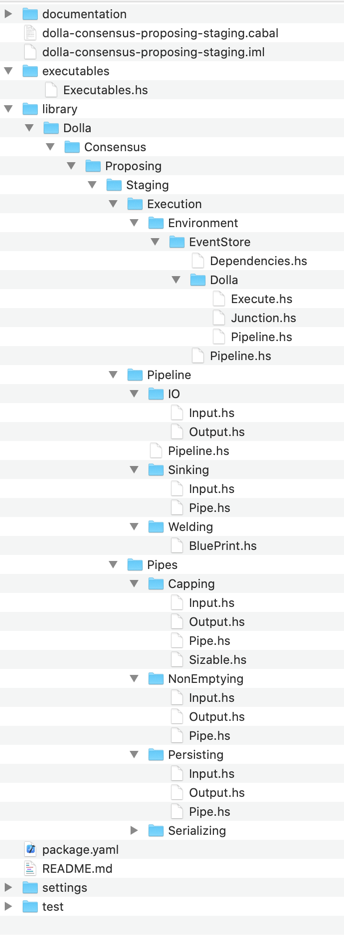
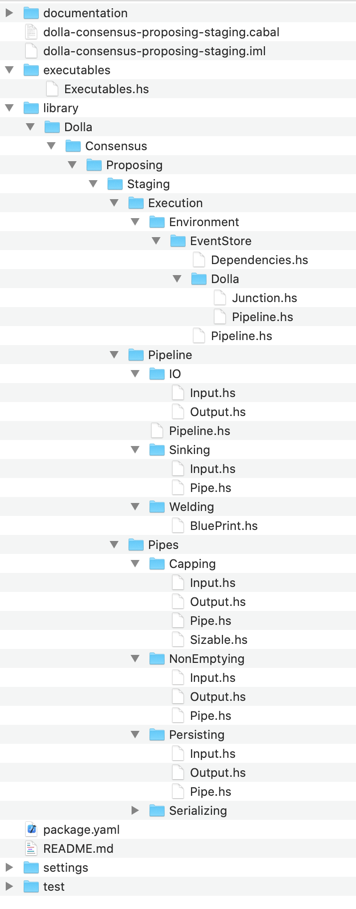
WIP

diff --git a/packages/detecting-tension/README.md b/packages/detecting-tension/README.md
@@ -1,5 +1,5 @@
-/ [Consensus](https://github.com/dolla-consortium/consensus) / [Proposing](https://github.com/dolla-consortium/consensus-proposing) / Detecting Starvation
-# Detecting Starvation
+/ [Consensus](https://github.com/dolla-consortium/consensus) / [Proposing](https://github.com/dolla-consortium/consensus-proposing) / Detecting Tension
+# Detecting Tension
 
 - [Overview](#overview)
 - [Project Tree](#project-tree)
@@ -12,33 +12,34 @@
 <img align="right" src="documentation/media/project-tree.png"><div>
 ### 1. Pipeline
 
-`DetectingStarvation` is a simple ***Pipeline***
-- a persisted input stream : [Input.hs](lib/Dolla/Consensus/Proposing/MeasuringTension/Pipeline/IO/Input.hs)
-- a pipeline [Pipeline.hs](lib/Dolla/Consensus/Proposing/DetectingStarvation/Pipeline/Pipeline.hs)
+`DetectingTension` is a simple ***Pipeline***
+- a persisted input stream : [Input.hs](library/Dolla/Consensus/Proposing/DetectingTension/Pipeline/IO/Input.hs)
+- a line of Pipes Welded together in  [Pipeline.hs](library/Dolla/Consensus/Proposing/DetectingTension/Pipeline/Pipeline.hs)
   - Sourcing initial inputs : `stream infinitely inputLog`
-  - Core [Pipe.hs](lib/Dolla/Consensus/Proposing/MeasuringTension/Pipes/Core/Pipe.hs)
-    - using [StateMachine.hs](lib/Dolla/Consensus/Proposing/MeasuringTension/Pipes/Core/StateMachine.hs)
-    - No Welding : We are using the Input/Output of the Pipeline itself (only 1 pipe)
+  - `DetectingTensedFlow` : A pipe that detects a tensed flow in [Pipe.hs](library/Dolla/Consensus/Proposing/DetectingTension/Pipes/DetectingTensedFlow/Pipe.hs) using [StateMachine.hs](library/Dolla/Consensus/Proposing/DetectingTension/Pipes/DetectingTensedFlow/StateMachine.hs)
+  - A Welding : Adapting IOs between pipes
   - Sinking final outputs : `sinking outputLog`
-- a persisted output stream : [Output.hs](lib/Dolla/Consensus/Proposing/MeasuringTension/Pipeline/IO/Output.hs)
+- a persisted output stream : [Output.hs](library/Dolla/Consensus/Proposing/DetectingTension/Pipeline/IO/Output.hs)
 
-### 3. Instances
+From A CQRS point of view, `DetectingTension` is a projection. It projects outputs from events previously recorded in the system.
 
-`DetectingStarvation` is Polymorphic by the Log Engine used
+### 2. Execution Environment
 
-You'll find in this folder a concrete version of [Pipeline.hs](lib/Dolla/Consensus/Proposing/MeasuringTension/Instances/EventStore/Pipeline.hs) over the event store
+`DetectingTension` is Polymorphic by the Log Engine used
 
-`DetectingStarvation` has some DevOps features as well
+You'll find in this folder a concrete pipeline version in [Pipeline.hs](library/Dolla/Consensus/Proposing/DetectingTension/Execution/Environment/EventStore/Pipeline.hs) over the event store
 
-- [Settings.hs](settings/lib/Dolla/Consensus/Proposing/MeasuringTension/Instances/EventStore/Settings.hs)  always into a separated project `xxxx-packaging-settings` for deployment purposes in Zeus
-- [Dependencies.hs](lib/Dolla/Consensus/Proposing/MeasuringTension/Instances/EventStore/Dependencies.hs) are derived from Settings if sub-dependencies are all Healthy
+`DetectingTension` has some DevOps features as well
 
-[Execute.hs](lib/Dolla/Consensus/Proposing/MeasuringTension/Instances/EventStore/Execute.hs) is an **Instance** of the Pipeline
+- [Settings.hs](settings/library/Dolla/Consensus/Proposing/DetectingTension/Execution/Environment/EventStore/Settings.hs)  always into a separated project `xxxx-packaging-settings` for deployment purposes in Zeus
+- [Dependencies.hs](library/Dolla/Consensus/Proposing/DetectingTension/Execution/Environment/EventStore/Dependencies.hs) are derived from Settings if sub-dependencies are all Healthy
+
+[Executable.hs](executables/Executables.hs)
 - Perform the HealhtChecks to obtain the pipeline dependencies
 - Execute the pipeline + load the [junctions](#junction) in the EventStore Microservice
 - Put the Microservice back in HealthCheck mode if any Exception bubbles up in the pipeline during execution.
 
-**N.B** : Microservice configuration and Deployment Logic (Locally/Simulated/Production etc...) are defined in the package [Zeus](../zeus/)
+**N.B** : Microservice configuration and Deployment (Locally/Simulated/Production etc...) are defined in the package [Zeus](../zeus/)
 
 </div>
 
@@ -52,19 +53,49 @@ A Junction (Merger) is
 
 The persisted input stream is the junction of 2 upstreams pipelines
 - Consening :
-  - Local Proposal Consumed
-  - Local Proposal Asked
-- [Packaging](../packaging/README.md) transmitting Local Proposal
+  - `Local Proposal Accepted`
+  - `Consensus Reached`
+- [Staging](../staging/README.md) with `Local Proposal Staged`
 
-We are using the "User Defined Projections" feature from the EventStore to implement this junction :
+We are using the "User Defined Projections" EventStore feature to implement this junction
  - javaScript snippets
  - loaded in the event store microservice directly
  - more details : https://eventstore.org/docs/projections/api/index.html
 
 These features were used to move quicker on the proof of concept. We'll eventually implement our own soon.
 
-> Defined in [Junction.hs](lib/Dolla/Consensus/Proposing/Packaging/Instances/EventStore/Dolla/Junction.hs)
+> Defined in [Junction.hs](library/Dolla/Consensus/Proposing/DetectingTension/Execution/Environment/EventStore/Junction.hs)
 
-> Executed in [Execute.hs](lib/Dolla/Consensus/Proposing/Packaging/Instances/EventStore/Dolla/Execute.hs)
+> Executed in [Executable.hs](executables/Executables.hs)
 
-## IOs
+# Pipes
+## Detecting Tensed Flow
+### Problem
+From the pipeline input
+```haskell
+data  Input
+  = LocalProposalAccepted
+  | LocalProposalStaged
+  | ConsensusReached
+```
+We want to determine if the Local Proposal Flow is tensed.
+
+### Approach
+
+We'll transpose our terminology from the specific consensus domain to a more generic one :
+```haskell
+instance Weldable DetectingTension.Input DetectingTensedFlow.Input where
+  weld
+    = \case
+      DetectingTension.LocalProposalAccepted  -> DetectingTensedFlow.Released
+      DetectingTension.LocalProposalStaged    -> DetectingTensedFlow.Staged
+      DetectingTension.ConsensusReached       -> DetectingTensedFlow.Pulled
+```
+
+A flow is tensed when
+- all the items staged have been released and pulled
+- we are pulling on `items staged - items release and pulled == 0`
+
+> Implemented in [Pipe.hs](library/Dolla/Consensus/Proposing/DetectingTension/Pipes/DetectingTensedFlow/Pipe.hs) and [StateMachine.hs](library/Dolla/Consensus/Proposing/DetectingTension/Pipes/DetectingTensedFlow/StateMachine.hs)
+
+> Tested in [StateMachineSpec.hs](test/Dolla/Consensus/Proposing/DetectingTension/Pipes/DetectingTensedFlow/StateMachineSpec.hs)

diff --git a/packages/staging/README.md b/packages/staging/README.md
@@ -77,18 +77,16 @@ A Junction (Merger) is
 
 The persisted input stream is the junction of 2 upstreams pipelines
 - [Receptioning](../receptioning/README.md) providing collected requests
-- [Detecting-Starvation](../detecting-starvation/README.md) transmitting Local-Proposal-Starvation Notifications
+- [Detecting Tension](../detecting-tension/README.md) transmitting Local-Proposal-Starvation Notifications
 
-We are using the "User Defined Projections" feature from the EventStore to implement this junction :
+We are using the "User Defined Projections" EventStore feature to implement this junction
  - javaScript snippets
  - loaded in the event store microservice directly
  - more details : https://eventstore.org/docs/projections/api/index.html
 
-These features were used to move quicker on the proof of concept. We'll eventually implement our own soon.
+> Defined in [Junction.hs](library/Dolla/Consensus/Proposing/Staging/Execution/Environment/EventStore/Dolla/Junction.hs)
 
-> Defined in [Junction.hs](library/Dolla/Consensus/Proposing/Staging/Instances/EventStore/Dolla/Junction.hs)
-
-> Executed in [Execute.hs](library/Dolla/Consensus/Proposing/Staging/Instances/EventStore/Dolla/Execute.hs)
+> Executed in [Executable.hs](executables/Executables.hs)
 
 ## IOs
 ### Input/Commands
@@ -116,17 +114,19 @@ x.tmp -> x.proposal
 - Redirect the stream into a new Temporary File : `(x+1).tmp`
 - Notify the downstream Broadcasting Section that a new local proposal is available.
 
-#### 2. ForceProposalProduction
+#### 2. Stage
 
-Executing that command means :
-- Converting the temporary file into a proposal file if requests are accumulated.
+This command appears when the Local Proposal flow is **tensed**. The flow is tensed when the consensus is consuming more local proposal than produced.
+
+Executing it means :
+- Converting the temporary file into a proposal file if requests are already accumulated.
 
 ### Output/Events
 
 > Defined [Output.hs](library/Dolla/Consensus/Proposing/Staging/Pipeline/IO/Output.hs)
 
 Staging produces
-- A Notification : `LocalProposalProduced {localOffset :: Offset}`
+- A Notification : `LocalProposalStaged {localOffset :: Offset}`
 - a File `{localOffset}.proposal` containing requests with
 ```
 0 < Size <= Size Limit
@@ -135,7 +135,7 @@ Staging produces
 
 To produce the expected pipeline output , we are combining different pipes all together by
 - A simple function composition (.)
-- A welding : `map` to adapt `Output Pipe(x)`  with `Input Pipe(x+1)`
+- A welding : `map` to adapt Output Pipe `x`  with Input Pipe `x+1`
 
 The `Staging` pipe recipe is
 ```haskell
@@ -159,7 +159,7 @@ Under the responsibility of
 - [`NonEmptying`](#nonemptying) Pipe
 - [`Capping`](#capping) Pipe
 
-### 2. Convert the temporary file to a proposal file.
+### 2. Convert the temporary file into a proposal file.
 Under the responsibility of
 - [`Persisting`](#persisting) Pipe
 
@@ -185,21 +185,19 @@ newtype SerializedRequest = SerializedRequest [Word8] deriving (Eq,Show)
 Remembering the initial input of the section
 ```haskell
 data Input request
-  = ForceProposalProduction -- ^ ask to "Staging Pipeline" to flush all the requests currently collected
+  = Stage -- ^ ask to "Staging Pipeline" to force the stage of a new local proposal with all the requests currently collected
   | Package request -- ^ ask to to "Staging Pipeline" to package the request into a proposal according
                     -- some properties (see README.md)
-  deriving (Eq,Show)
-
 
 ```
-It's totally natural to receive multiple `ForceProposalProduction` commands consecutively, E.g
+It's totally natural to receive multiple `Stage` commands consecutively, E.g
 - No Requests while many blocks are appended consecutively
 - Etc...
 
 Forcing the production of empty proposal adds no value in our domain and provokes an accidental complexity downstream if not managed.  
 Therefore, we want to
-- Remove the consecutive `ForceProposalProduction` commands from our input stream.
-- Never start downstream processing with a `ForceProposalProduction`
+- Remove the consecutive `Stage` commands from our input stream.
+- Never start downstream processing with a `Stage`
 
 Said differently, we want to get the following property
 ```

diff --git a/README.md b/README.md
@@ -12,15 +12,15 @@
 - **Receptioning** requests from customers and consortium members
 - **Staging** these requests packaged into local proposals for being consumed by the consensus.
 
-Each of these local proposals once accepted by the consortium will be uniformly transacted on each consortium node.  
-Then transactions will be appended into each node ledgers.
+Each of these local proposals once accepted by the consortium will be uniformly transacted on each consortium node.
+The transactions will then be appended into each node ledgers.
 
 A **Section** is a meaningful Set of Pipelines and Junctions put together.
 
 ![proposing-overview](documentation/media/proposing-overview.png)
 
 - [Receptioning](/packages/receptioning) : Client/Server for collecting requests.
-- [Detecting Tension](/packages/detecting-tension) : Detect if the local proposal flow is tensed, meaning if the consensus has consumed more local proposals than being staged.
+- [Detecting Flow Tension](/packages/detecting-tension) : Detect if the local proposal flow is tensed, meaning if the consensus has consumed more local proposals than being staged.
 - [Staging](/packages/staging) : Stage Local Proposal Files for being consumed by the consensus. Local Proposals have the following properties
   - `Proposals are never empty`
   - `Proposals file size < configurable size limit`
